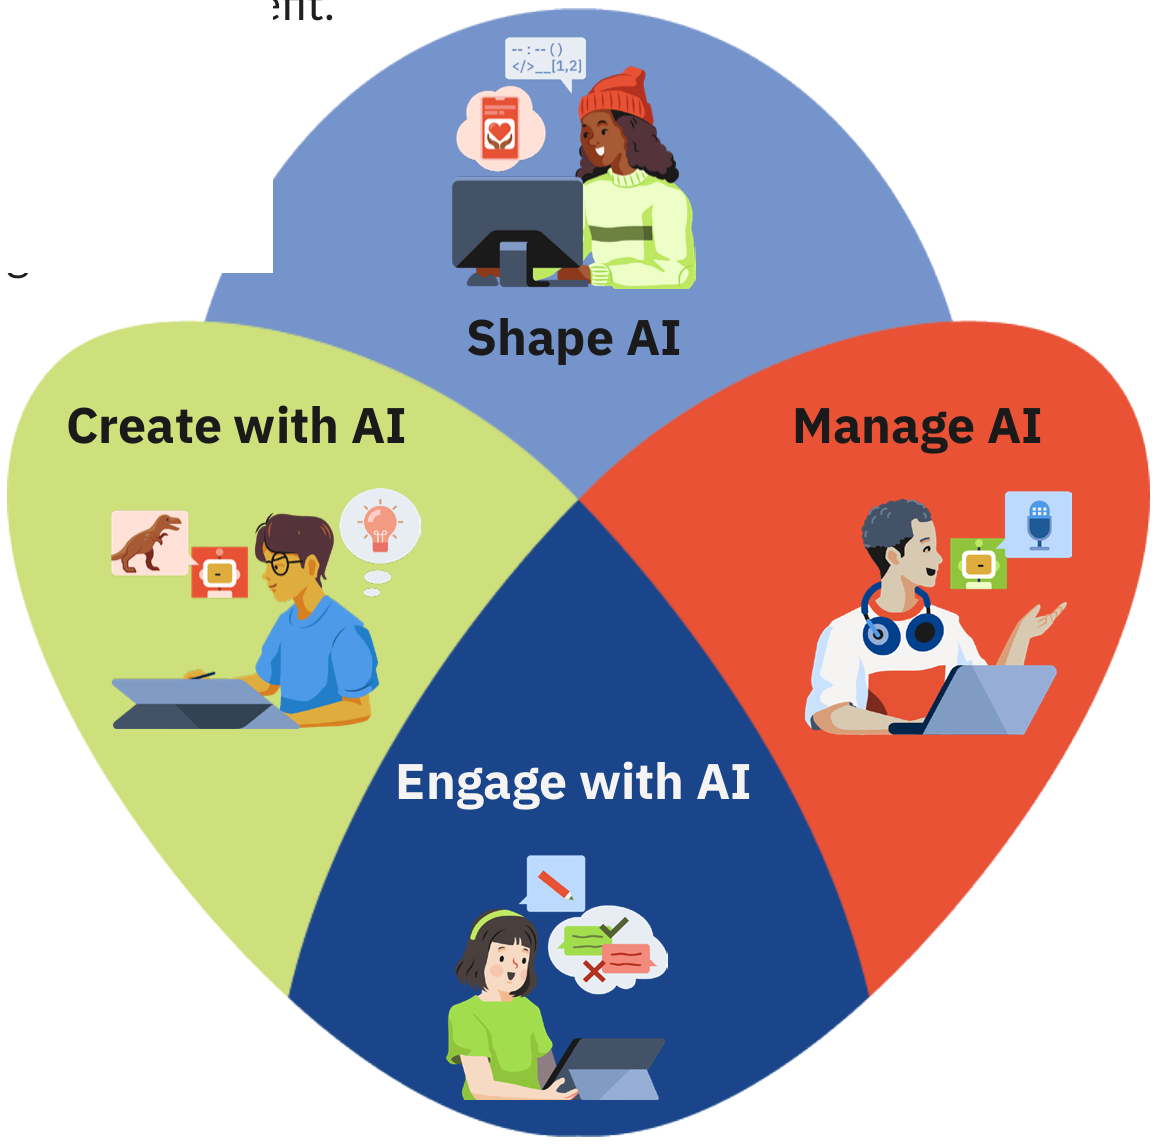
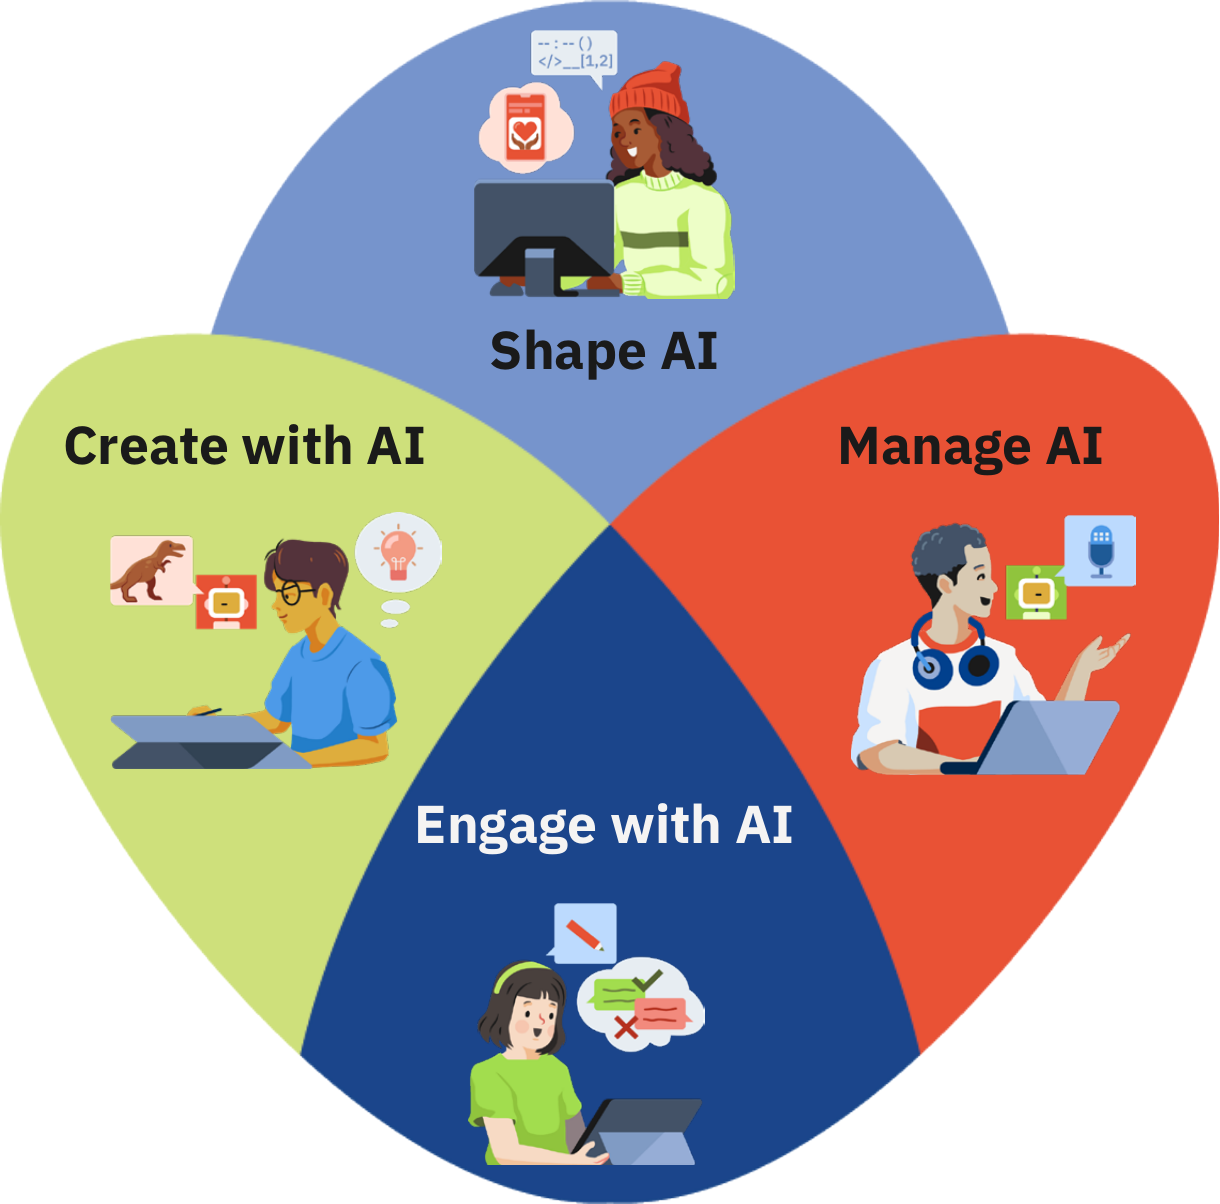
표제부 꽃잎을 원문 도판으로 교체
직접 그린 SVG 대신 원문 그림 1(fig1-domains.png)을 쓴다. 꽃잎마다 투명한
이동 단추를 얹어 눌러서 해당 영역으로 가는 동작은 그대로 두었다. 단추 위치는
도판 화소를 직접 재서 얻은 꽃잎 무게중심이다.

도판 라벨이 영문뿐이라 아래에 한국어 범례를 두었다. 순서는 학습 경로대로
E → C → M → S 로, 좌측 영역 칩·목차와 같다.

도판을 다시 뽑았다
받아 둔 fig1-domains.png 에 세 가지 문제가 있었다.
- 지면에서 딸려 들어온 글자 조각이 남아 있었다("ent." 와 낱자 하나).
  표제부에 크게 걸면 바로 눈에 띈다.
- 보라색 꽃잎 왼쪽 위가 사각형으로 잘려 있었다.
- CREDITS.md 는 투명 배경이라고 적었지만 실제로는 흰 배경이었다.

이 파일은 PDF 안의 이미지 하나가 아니라 지면 영역을 통째로 래스터한 것이라
생긴 문제다. 원문 10쪽에서 도판이 놓인 자리(꽃잎 도형 xref 136 의 위치)만
잡아 320dpi 로 다시 렌더했다. 겹쳐 있던 지면 본문 낱말 11개만 걷어냈고
이미지와 벡터 도형, 도판 라벨은 손대지 않았다. 잘림도 함께 사라졌다.
§02 의 그림 1 도 같은 파일이라 함께 좋아진다.

확인
- 꽃잎 단추 4개 모두 도판의 불투명 화소 위에 놓임. 클릭 시 62px 정착.
- 범례 4개 모두 제 영역으로 이동.
- §02 그림 1 캡션과 영한 대응표 4행 이상 없음.
- 375px 가로 넘침 0px, 콘솔 오류 0건.

Claude-Session: https://claude.ai/code/session_01AibA3KkPBVArKXbLgRn9Gv

diff --git a/src/main.ts b/src/main.ts
@@ -23,6 +23,16 @@ import { renderFooter } from './components/footer'
 const content = raw as unknown as Content
 
 // ---------------------------------------------------------------- 표제부
+/** 도판 위 각 꽃잎의 무게중심(이미지 비율)과 한국어 이름.
+ *  fig1-domains.png 의 화소를 직접 재서 얻은 값이라 도판을 갈면 다시 재야 한다. */
+const DOMAIN_SPOTS = [
+  // 순서는 프레임워크의 학습 경로대로 E → C → M → S. 좌측 영역 칩·목차와 같다.
+  { id: 'engage', ko: 'AI와 마주하기', en: 'Engage with AI', color: '#12428E', x: 50.5, y: 74.9 },
+  { id: 'create', ko: 'AI와 창작하기', en: 'Create with AI', color: '#6E9410', x: 21.5, y: 51.1 },
+  { id: 'manage', ko: 'AI 관리하기',   en: 'Manage AI',      color: '#D8431F', x: 76.7, y: 50.4 },
+  { id: 'shape',  ko: 'AI 만들어가기', en: 'Shape AI',       color: '#5C74B8', x: 50.2, y: 20.6 },
+] as const
+
 const hero = `
 <header class="hero wrap reveal">
   <div class="hero-grid">
@@ -39,29 +49,25 @@ const hero = `
       </dl>
     </div>
     <div>
-      <svg class="petals" viewBox="0 0 420 420" role="img" aria-label="AILit 프레임워크의 네 영역 탐색기">
-        <g class="petal" data-go="shape" role="button" tabindex="0" aria-label="AI 만들어가기 영역으로 이동">
-          <path d="M210,215 C150,160 148,80 210,52 C272,80 270,160 210,215 Z" fill="#5C74B8"/>
-          <text class="petal-lab" x="210" y="120" text-anchor="middle">AI 만들어가기</text>
-          <text class="petal-en" x="210" y="138" text-anchor="middle">SHAPE AI</text>
-        </g>
-        <g class="petal" data-go="create" role="button" tabindex="0" aria-label="AI와 창작하기 영역으로 이동">
-          <path d="M205,210 C150,150 70,148 42,210 C70,272 150,270 205,210 Z" fill="#8FBF2B"/>
-          <text class="petal-lab" x="115" y="207" text-anchor="middle">AI와 창작하기</text>
-          <text class="petal-en" x="115" y="224" text-anchor="middle">CREATE WITH AI</text>
-        </g>
-        <g class="petal" data-go="manage" role="button" tabindex="0" aria-label="AI 관리하기 영역으로 이동">
-          <path d="M215,210 C270,150 350,148 378,210 C350,272 270,270 215,210 Z" fill="#D8431F"/>
-          <text class="petal-lab" x="305" y="207" text-anchor="middle">AI 관리하기</text>
-          <text class="petal-en" x="305" y="224" text-anchor="middle">MANAGE AI</text>
-        </g>
-        <g class="petal" data-go="engage" role="button" tabindex="0" aria-label="AI와 마주하기 영역으로 이동">
-          <path d="M210,205 C150,260 148,340 210,368 C272,340 270,260 210,205 Z" fill="#12428E"/>
-          <text class="petal-lab" x="210" y="300" text-anchor="middle">AI와 마주하기</text>
-          <text class="petal-en" x="210" y="318" text-anchor="middle">ENGAGE WITH AI</text>
-        </g>
-      </svg>
-      <p style="text-align:center; font-family:var(--mono); font-size:11px; color:var(--ink-3); margin-top:10px">영역을 눌러 해당 절로 이동</p>
+      <figure class="hero-fig">
+        <div class="hero-fig-img">
+          <img src="/assets/fig1-domains.png" width="1220" height="1204"
+               alt="AILit 프레임워크의 네 영역을 꽃잎처럼 배치한 도판. 위에서부터 시계 방향으로 AI 만들어가기, AI 관리하기, AI와 마주하기, AI와 창작하기."
+               decoding="async" fetchpriority="high">
+          ${DOMAIN_SPOTS.map((d) => `
+            <button type="button" class="hero-spot" data-go="${d.id}"
+                    style="left:${d.x}%; top:${d.y}%"
+                    aria-label="${d.ko} 영역으로 이동"><span></span></button>`).join('')}
+        </div>
+        <figcaption>
+          <p class="hero-fig-hint">영역을 눌러 해당 절로 이동</p>
+          <ul class="hero-legend">
+            ${DOMAIN_SPOTS.map((d) => `
+              <li><button type="button" data-go="${d.id}" style="--c:${d.color}">
+                <b>${d.ko}</b><span>${d.en}</span></button></li>`).join('')}
+          </ul>
+        </figcaption>
+      </figure>
     </div>
   </div>
 </header>`
@@ -104,15 +110,11 @@ initRail(content)
 initToc(content)
 initSearch(content)
 
-// 표제부 꽃잎 탐색기
+
+// 표제부 도판과 범례에서 영역으로 이동
 doc.addEventListener('click', (e) => {
-  const g = (e.target as HTMLElement).closest<SVGGElement>('.petal[data-go]')
-  if (g) goTo(g.dataset.go!)
-})
-doc.addEventListener('keydown', (e) => {
-  if (e.key !== 'Enter' && e.key !== ' ') return
-  const g = (e.target as HTMLElement).closest<SVGGElement>('.petal[data-go]')
-  if (g) { goTo(g.dataset.go!); e.preventDefault() }
+  const btn = (e.target as HTMLElement).closest<HTMLElement>('.hero-fig [data-go]')
+  if (btn) goTo(btn.dataset.go!)
 })
 
 // 스크롤 진입 효과 — prefers-reduced-motion 이면 그냥 다 보여 준다

diff --git a/src/styles/components.css b/src/styles/components.css
@@ -21,6 +21,45 @@
 .petal-en{font-family:var(--mono); font-size:9px; fill:#fff; opacity:.72; pointer-events:none}
 @media (prefers-reduced-motion: reduce){.petal{transition:none}}
 
+/* 표제부 도판 — 원문 그림 1 을 그대로 쓰고 꽃잎 위에 이동 단추를 얹는다 */
+.hero-fig{margin:0}
+.hero-fig-img{position:relative; max-width:420px; margin:0 auto}
+.hero-fig-img img{width:100%; height:auto; display:block}
+
+/* 꽃잎 중심에 놓이는 투명 단추. 위치 값은 도판에서 잰 무게중심이다. */
+.hero-spot{
+  position:absolute; transform:translate(-50%,-50%);
+  width:27%; height:27%; padding:0; border:none; background:none;
+  border-radius:50%; cursor:pointer;
+}
+.hero-spot span{
+  display:block; width:100%; height:100%; border-radius:50%;
+  background:#fff; opacity:0; transition:opacity .2s ease;
+}
+.hero-spot:hover span{opacity:.22}
+.hero-spot:focus-visible{outline:2px solid var(--ink); outline-offset:2px}
+@media (prefers-reduced-motion: reduce){ .hero-spot span{transition:none} }
+
+.hero-fig-hint{
+  text-align:center; font-family:var(--mono); font-size:11px;
+  color:var(--ink-3); margin:12px 0 0;
+}
+
+/* 도판 라벨이 영문뿐이라 한국어 이름을 함께 둔다 */
+.hero-legend{
+  list-style:none; margin:14px 0 0; padding:0;
+  display:grid; grid-template-columns:1fr 1fr; gap:6px;
+}
+.hero-legend button{
+  display:block; width:100%; text-align:left; cursor:pointer;
+  background:var(--paper-2); border:1px solid var(--rule);
+  border-left:4px solid var(--c); border-radius:0 7px 7px 0; padding:7px 10px;
+  font-family:var(--sans);
+}
+.hero-legend button:hover{border-color:var(--c)}
+.hero-legend b{display:block; font-size:13px; font-weight:700; color:var(--ink); line-height:1.35}
+.hero-legend span{display:block; font-family:var(--mono); font-size:9.5px; color:var(--ink-3); margin-top:1px}
+
 /* ══════════════ BOX ══════════════ */
 .callout{
   background:var(--paper-2); border:1px solid var(--rule); border-left:5px solid var(--engage);

diff --git a/src/data/figures.ts b/src/data/figures.ts
@@ -149,7 +149,7 @@ export const DIMS: Record<string, [number, number]> = {
   'domain-engage-opener.png': [1240, 1400],
   'domain-manage-opener.png': [1263, 1400],
   'domain-shape-opener.png': [1400, 1394],
-  'fig1-domains.png': [1159, 1146],
+  'fig1-domains.png': [1220, 1204],
   'fig2-shared-effort.png': [1400, 698],
   'fig3-respondents.png': [1400, 1031],
   'fig4-disciplines.png': [1400, 842],

diff --git a/public/assets/CREDITS.md b/public/assets/CREDITS.md
@@ -21,6 +21,11 @@ OECD / European Union (2026). *Empowering learners for the age of AI: An AI lite
 
 도판 안의 영문 라벨은 원문 그대로입니다. 본문에 한국어 대응표를 함께 두는 편이 좋습니다.
 
+`fig1-domains.png`은 원문 PDF에서 다시 뽑았습니다. 먼저 받은 파일에는 지면에서 딸려 들어온
+글자 조각(“ent.”, 낱자 하나)이 남아 있었고, 보라색 꽃잎 왼쪽 위가 사각형으로 잘려 있었으며,
+배경이 투명이 아니라 흰색이었습니다. 지면 본문만 걷어내고 도판이 놓인 자리 그대로
+320dpi로 다시 렌더했습니다. 그림 자체에는 손대지 않았고 라벨도 원문 그대로입니다.
+
 ## 영역 오프너 (각 영역 도입부 대형 삽화)
 
 | 파일 | 원문 위치 | 영역 |
